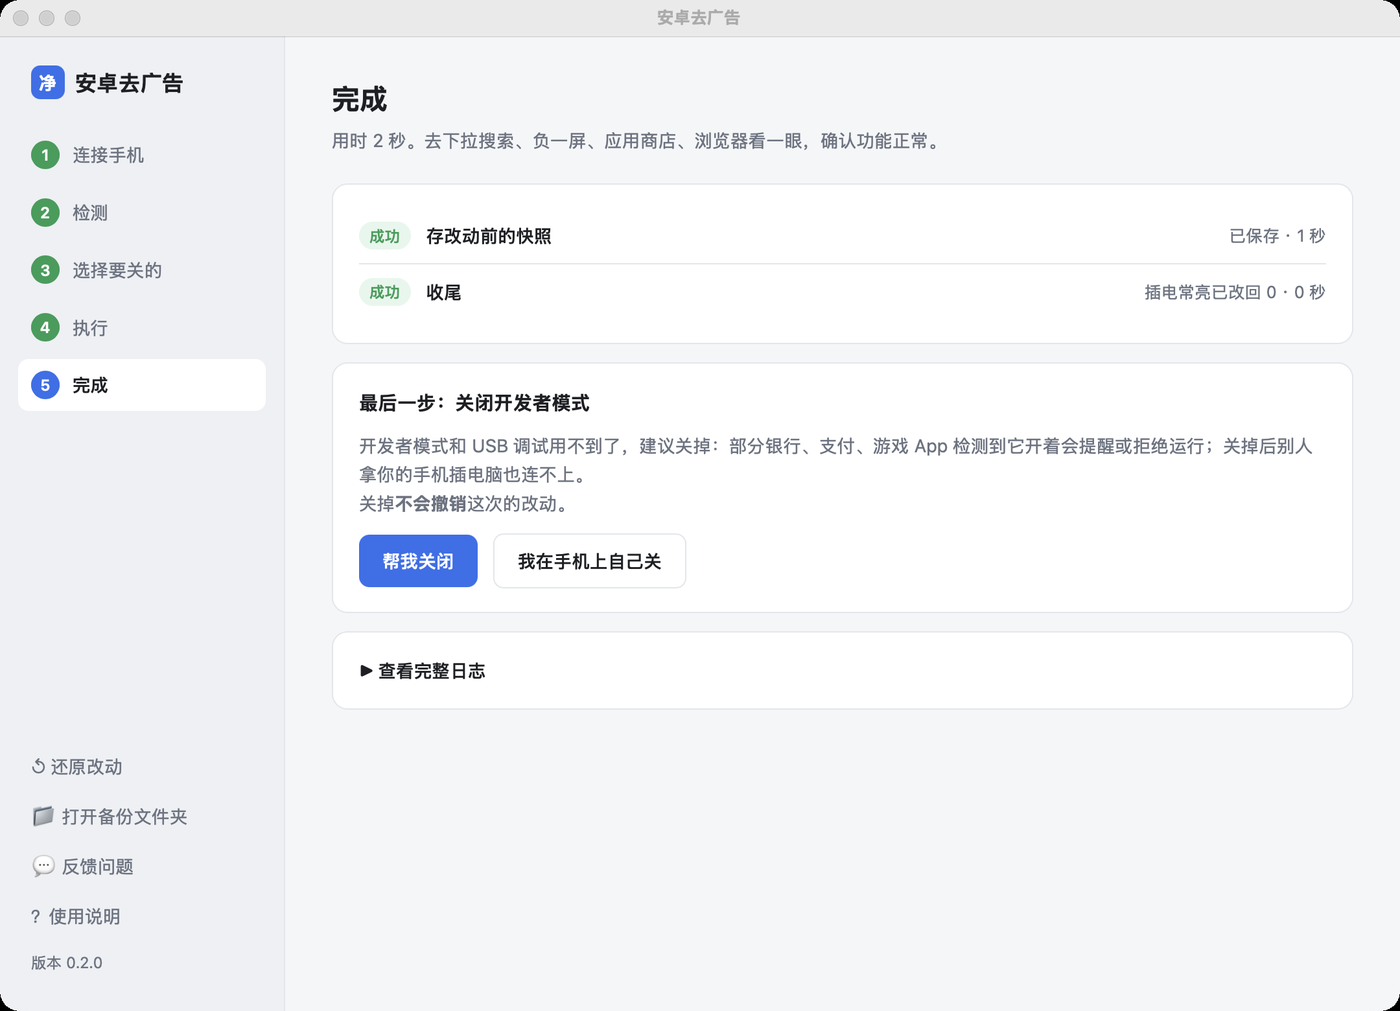
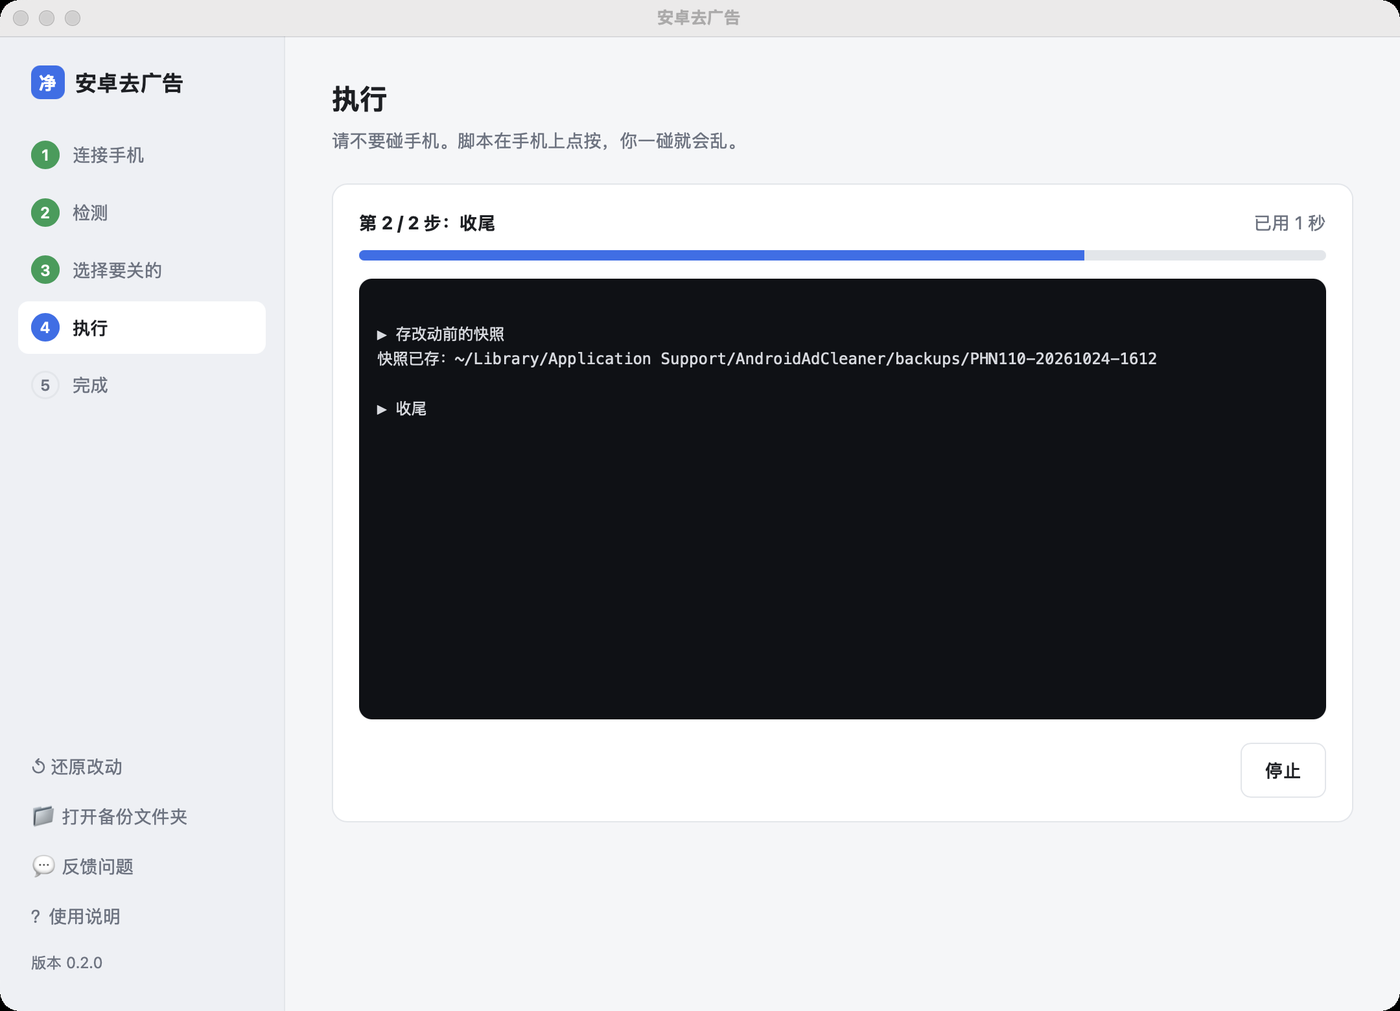
介绍网页 index.html（国内百度网盘 + GitHub 双下载）；执行页截图修正；快照路径显示用 ~ 代替用户目录

diff --git a/index.html b/index.html
@@ -1,0 +1,276 @@
+<!doctype html>
+<html lang="zh-CN">
+<head>
+<meta charset="utf-8">
+<meta name="viewport" content="width=device-width, initial-scale=1">
+<title>安卓去广告</title>
+<meta name="description" content="关掉国产安卓手机系统里的广告、热搜、资讯推荐和营销推送。不 root，不刷机，每一项都能还原。Mac 与 Windows 桌面客户端。">
+<link rel="icon" href="gui/icon-1024.png">
+<style>
+:root{
+  --bg:#ffffff; --bg2:#f5f6f8; --card:#ffffff; --text:#16181d; --sub:#5f6672; --line:#e4e7ec;
+  --accent:#2f6fec; --accent2:#1f56c9; --accent-weak:#eaf1fe; --ok:#1f9d55; --warn:#b86e00; --warn-weak:#fdf4e3;
+  --shadow:0 10px 30px rgba(20,30,60,.08);
+}
+@media (prefers-color-scheme: dark){
+  :root:not([data-theme="light"]){
+    --bg:#111317; --bg2:#171a1f; --card:#1c1f25; --text:#eceef2; --sub:#a0a6b0; --line:#2b3038;
+    --accent:#5b8ff9; --accent2:#7aa5ff; --accent-weak:#1d2a44; --ok:#45c47b; --warn:#e2a443; --warn-weak:#33280f;
+    --shadow:0 10px 30px rgba(0,0,0,.35);
+  }
+}
+*{box-sizing:border-box}
+html{scroll-behavior:smooth}
+html,body{overflow-x:hidden}
+body{margin:0;background:var(--bg);color:var(--text);
+  font:16px/1.7 -apple-system,BlinkMacSystemFont,"PingFang SC","Microsoft YaHei","Segoe UI",sans-serif;-webkit-font-smoothing:antialiased}
+a{color:var(--accent);text-decoration:none}
+a:hover{text-decoration:underline}
+.wrap{max-width:1080px;margin:0 auto;padding:0 20px}
+nav{position:sticky;top:0;z-index:5;background:color-mix(in srgb,var(--bg) 85%,transparent);backdrop-filter:blur(12px);border-bottom:1px solid var(--line)}
+nav .wrap{display:flex;align-items:center;gap:22px;height:58px}
+.logo{display:flex;align-items:center;gap:10px;font-weight:700;font-size:17px;color:var(--text)}
+.logo img{width:28px;height:28px}
+nav .links{margin-left:auto;display:flex;gap:20px;font-size:14px}
+nav .links a{color:var(--sub)}
+@media (max-width:640px){nav .links a:not(.gh){display:none}}
+
+.hero{padding:72px 0 40px;text-align:center}
+.hero h1{font-size:clamp(34px,6vw,56px);line-height:1.15;margin:0 0 18px;letter-spacing:-.5px}
+.hero p.lead{font-size:clamp(17px,2.2vw,20px);color:var(--sub);max-width:640px;margin:0 auto 30px}
+.pills{display:flex;flex-wrap:wrap;justify-content:center;gap:10px;margin-bottom:34px}
+.pill{border:1px solid var(--line);border-radius:99px;padding:5px 14px;font-size:14px;color:var(--sub);background:var(--bg2)}
+.cta{display:flex;flex-wrap:wrap;gap:12px;justify-content:center}
+.btn{display:inline-flex;align-items:center;gap:8px;border-radius:12px;padding:12px 22px;font-weight:600;font-size:16px;border:1px solid transparent;cursor:pointer}
+.btn:hover{text-decoration:none}
+.btn.primary{background:var(--accent);color:#fff}
+.btn.primary:hover{background:var(--accent2)}
+.btn.ghost{background:var(--accent-weak);color:var(--accent)}
+.btn.line{border-color:var(--line);color:var(--text);background:var(--card)}
+.btn small{font-weight:500;opacity:.8;font-size:13px}
+.hint{color:var(--sub);font-size:14px;margin-top:14px}
+.shot{margin:46px auto 0;max-width:960px;border-radius:14px;overflow:hidden;box-shadow:var(--shadow);border:1px solid var(--line)}
+.shot img{display:block;width:100%}
+
+section{padding:76px 0}
+section.alt{background:var(--bg2)}
+h2{font-size:clamp(26px,3.6vw,34px);margin:0 0 10px;letter-spacing:-.3px}
+.sec-lead{color:var(--sub);margin:0 0 34px;max-width:720px}
+
+.dl-grid{display:grid;grid-template-columns:repeat(auto-fit,minmax(min(240px,100%),1fr));gap:16px}
+.dl{background:var(--card);border:1px solid var(--line);border-radius:16px;padding:22px;display:flex;flex-direction:column;gap:12px;position:relative}
+.dl.rec{border-color:var(--accent);box-shadow:0 0 0 3px var(--accent-weak)}
+.dl .tag{position:absolute;top:-11px;left:18px;background:var(--accent);color:#fff;font-size:12px;font-weight:700;border-radius:99px;padding:2px 10px;display:none}
+.dl.rec .tag{display:block}
+.dl h3{margin:0;font-size:18px}
+.dl .meta{color:var(--sub);font-size:14px;margin:-6px 0 4px}
+.dl .btn{justify-content:center;padding:10px 14px;font-size:15px}
+.dl .note{font-size:13px;color:var(--sub)}
+.baidu{margin-top:22px;border-radius:14px;padding:16px 18px;background:var(--warn-weak);color:var(--warn);font-size:15px}
+.baidu b{color:var(--text)}
+.baidu code{background:var(--card);padding:1px 8px;border-radius:6px;font-size:15px;color:var(--text)}
+details.sum{margin-top:16px;color:var(--sub);font-size:13px}
+details.sum code{font-size:12px;word-break:break-all}
+
+.feat{display:grid;grid-template-columns:repeat(auto-fit,minmax(min(200px,100%),1fr));gap:16px}
+.f{background:var(--card);border:1px solid var(--line);border-radius:16px;padding:20px}
+.f .ico{font-size:26px}
+.f h3{margin:8px 0 6px;font-size:17px}
+.f p{margin:0;color:var(--sub);font-size:15px}
+
+.steps{display:grid;gap:46px}
+.step{display:grid;grid-template-columns:1fr 1.5fr;gap:34px;align-items:center}
+.step:nth-child(even) .txt{order:2}
+@media (max-width:760px){.step{grid-template-columns:1fr}.step:nth-child(even) .txt{order:0}}
+.step .num{display:inline-grid;place-items:center;width:32px;height:32px;border-radius:50%;background:var(--accent);color:#fff;font-weight:700;margin-bottom:10px}
+.step h3{margin:0 0 8px;font-size:22px}
+.step p{margin:0;color:var(--sub)}
+.step img{width:100%;border-radius:12px;border:1px solid var(--line);box-shadow:var(--shadow);display:block}
+
+.promise{display:grid;grid-template-columns:repeat(auto-fit,minmax(min(220px,100%),1fr));gap:14px}
+.pr{display:flex;gap:12px;align-items:flex-start;background:var(--card);border:1px solid var(--line);border-radius:14px;padding:16px 18px}
+.pr .ck{color:var(--ok);font-weight:800;font-size:18px;line-height:1.4}
+.pr b{display:block}
+.pr span{color:var(--sub);font-size:14px}
+
+table{width:100%;border-collapse:collapse;background:var(--card);border:1px solid var(--line);border-radius:14px;overflow:hidden;font-size:15px}
+th,td{padding:12px 14px;border-bottom:1px solid var(--line);text-align:left;vertical-align:top}
+th{background:var(--bg2);font-weight:600;font-size:14px;color:var(--sub)}
+tr:last-child td{border-bottom:0}
+.tbl{overflow-x:auto}
+.y{color:var(--ok);font-weight:600}.m{color:var(--warn);font-weight:600}
+
+.faq details{background:var(--card);border:1px solid var(--line);border-radius:12px;padding:14px 18px;margin-bottom:10px}
+.faq summary{cursor:pointer;font-weight:600}
+.faq p{margin:10px 0 0;color:var(--sub)}
+
+footer{padding:40px 0 60px;color:var(--sub);font-size:14px;border-top:1px solid var(--line)}
+footer .wrap{display:flex;flex-wrap:wrap;gap:16px 28px;justify-content:space-between}
+</style>
+</head>
+<body>
+
+<nav><div class="wrap">
+  <a class="logo" href="#"><img src="gui/icon-1024.png" alt="">安卓去广告</a>
+  <div class="links">
+    <a href="#download">下载</a><a href="#features">能关什么</a><a href="#how">怎么用</a><a href="#devices">支持机型</a><a href="#faq">常见问题</a>
+    <a class="gh" href="https://github.com/rddmwmddr/android-ad-cleaner">GitHub</a>
+  </div>
+</div></nav>
+
+<header class="hero"><div class="wrap">
+  <h1>把手机里的广告<br>关掉</h1>
+  <p class="lead">国产安卓手机的开屏广告、热搜、资讯推荐、营销推送，插上数据线，在电脑上点几下关掉。</p>
+  <div class="pills">
+    <span class="pill">不 root · 不刷机</span><span class="pill">系统更新不受影响</span><span class="pill">每一项都能还原</span><span class="pill">开源免费</span>
+  </div>
+  <div class="cta">
+    <a class="btn primary" id="hero-cn" href="#download">国内下载 <small id="hero-os"></small></a>
+    <a class="btn line" id="hero-gh" href="#download">GitHub 下载</a>
+  </div>
+  <div class="hint">版本 <span class="ver"></span> · Mac（Apple / Intel 芯片）· Windows 10 / 11 · 不需要 Python，也不需要 AI 工具</div>
+  <div class="shot"><img src="images/gui-3-detect.png" alt="客户端：检测页" loading="lazy"></div>
+</div></header>
+
+<section id="download" class="alt"><div class="wrap">
+  <h2>下载</h2>
+  <p class="sec-lead">选你的电脑。每个版本都有国内下载（百度网盘）和 GitHub 下载两个地址，文件一样。</p>
+  <div class="dl-grid" id="dl-grid"></div>
+  <div class="baidu" id="baidu-box"></div>
+  <details class="sum"><summary>SHA-256 校验值</summary><div id="sums"></div></details>
+</div></section>
+
+<section id="features"><div class="wrap">
+  <h2>能关掉什么</h2>
+  <p class="sec-lead">只拨系统和 App 自带的开关。搜索、负一屏卡片、应用商店的安装和更新、天气预警、快递提醒，这些功能保留。</p>
+  <div class="feat">
+    <div class="f"><div class="ico">📢</div><h3>系统广告</h3><p>个性化广告、广告跟踪（OAID）、智能推荐服务。</p></div>
+    <div class="f"><div class="ico">🔥</div><h3>热搜和资讯</h3><p>下拉搜索的热榜、负一屏资讯、浏览器信息流。</p></div>
+    <div class="f"><div class="ico">🛍</div><h3>推广位</h3><p>应用商店的轮播、开屏、悬浮活动、签到福利。</p></div>
+    <div class="f"><div class="ico">🔔</div><h3>营销推送</h3><p>各 App 的「内容与营销」「活动优惠」通知。订单、物流、聊天通知保留。</p></div>
+    <div class="f"><div class="ico">⚡</div><h3>快应用</h3><p>广告一点就跳进去的免安装小程序。关闭后跳转会被系统拦下。</p></div>
+    <div class="f"><div class="ico">🧩</div><h3>广告组件</h3><p>OPPO 广告服务、小米系统广告组件等，挂起后可一键恢复。</p></div>
+  </div>
+</div></section>
+
+<section id="how" class="alt"><div class="wrap">
+  <h2>怎么用</h2>
+  <p class="sec-lead">有现成机型脚本的手机，从插线到做完 4 到 6 分钟。</p>
+  <div class="steps">
+    <div class="step"><div class="txt"><div class="num">1</div><h3>连接手机</h3><p>手机打开开发者模式和 USB 调试，用数据线连电脑。客户端里有分步图文教程，五个品牌的入口都写了。</p></div><img src="images/gui-1-connect.png" alt="连接手机" loading="lazy"></div>
+    <div class="step"><div class="txt"><div class="num">2</div><h3>检测</h3><p>读出型号、系统版本、有没有机型脚本、快应用和广告组件的状态。只读，不改东西。</p></div><img src="images/gui-3-detect.png" alt="检测" loading="lazy"></div>
+    <div class="step"><div class="txt"><div class="num">3</div><h3>选择要关的</h3><p>营销通知按渠道列出来，服务类渠道默认不勾。快应用和广告组件由你决定，不勾不动。</p></div><img src="images/gui-4-choose.png" alt="选择要关的" loading="lazy"></div>
+    <div class="step"><div class="txt"><div class="num">4</div><h3>执行</h3><p>开始前存一份改动前的快照。执行期间显示进度和实时日志，手机放着别碰。</p></div><img src="images/gui-6-run.png" alt="执行" loading="lazy"></div>
+    <div class="step"><div class="txt"><div class="num">5</div><h3>完成，关闭开发者模式</h3><p>列出每一步的结果。最后一键关闭开发者模式，关掉不会撤销这次的改动。想恢复，左下角「还原改动」。</p></div><img src="images/gui-7-done.png" alt="完成" loading="lazy"></div>
+  </div>
+</div></section>
+
+<section><div class="wrap">
+  <h2>不做的事</h2>
+  <p class="sec-lead">全部代码公开在 GitHub，可以逐行检查。</p>
+  <div class="promise">
+    <div class="pr"><span class="ck">✓</span><div><b>不 root、不解锁、不刷机</b><span>系统更新照收，保修不受影响</span></div></div>
+    <div class="pr"><span class="ck">✓</span><div><b>不卸载、不停用系统应用</b><span>只用「挂起」，一条命令恢复</span></div></div>
+    <div class="pr"><span class="ck">✓</span><div><b>不替你同意任何协议</b><span>遇到协议页点「取消」「以后再说」</span></div></div>
+    <div class="pr"><span class="ck">✓</span><div><b>不上传任何数据</b><span>全程只在你的电脑和手机之间进行</span></div></div>
+  </div>
+</div></section>
+
+<section id="devices" class="alt"><div class="wrap">
+  <h2>支持机型</h2>
+  <p class="sec-lead">营销通知、快应用、广告组件三项所有安卓手机通用。「各 App 里的广告开关」要有对应机型的脚本，没有的机型可以照手动清单做。</p>
+  <div class="tbl"><table>
+    <thead><tr><th>品牌</th><th>实测机型</th><th>系统</th><th>机型脚本（自动关 App 开关）</th></tr></thead>
+    <tbody>
+      <tr><td>荣耀</td><td>PNM-AN10</td><td>MagicOS 10</td><td class="y">有，重跑 4 分钟</td></tr>
+      <tr><td>OPPO</td><td>Find N6</td><td>ColorOS 16.0.9</td><td class="m">有，整段待验证</td></tr>
+      <tr><td>OPPO</td><td>Find X10 Pro Max · Find X9 Ultra · Find N3 典藏版</td><td>ColorOS 16 / 17</td><td>手动清单</td></tr>
+      <tr><td>小米</td><td>Xiaomi 18 Pro Max</td><td>HyperOS 4</td><td class="m">有，整段待验证</td></tr>
+      <tr><td>vivo</td><td>X300 Ultra</td><td>OriginOS 6</td><td>手动清单</td></tr>
+    </tbody>
+  </table></div>
+  <p class="hint" style="text-align:left">你的手机不在表里：客户端里点「反馈问题」→「适配新机型」。</p>
+</div></section>
+
+<section id="faq"><div class="wrap faq">
+  <h2>常见问题</h2>
+  <details><summary>Mac 怎么看是哪种芯片？</summary><p>点屏幕左上角的苹果图标 → 关于本机。「芯片」一栏写 Apple M 开头的是 Apple 芯片，写 Intel 的是 Intel 芯片。</p></details>
+  <details><summary>Windows 弹出「Windows 已保护你的电脑」</summary><p>安装程序没有代码签名。点「更多信息」→「仍要运行」。</p></details>
+  <details><summary>Windows 提示缺少 WebView2</summary><p>点「确定」打开微软官网，下载安装「Evergreen Bootstrapper」，再打开本程序。Windows 11 自带，部分 Windows 10 要装。</p></details>
+  <details><summary>插上手机，客户端认不出来</summary><p>先检查三件事：换一根能传数据的线；手机通知栏里 USB 用途选「传输文件」；手机弹窗点「允许 USB 调试」。Windows 还要装手机品牌的 USB 驱动，各品牌的「手机助手」里带驱动。</p></details>
+  <details><summary>会影响系统更新和保修吗？</summary><p>不会。不 root，不解锁，不改系统分区。用到的是开发者选项和系统自带的设置项。</p></details>
+  <details><summary>关完还会有广告吗？</summary><p>会剩一些：浏览器搜索框的轮播热词没有开关；OPPO 软件商店的「开机必备」弹窗关不掉；新装的 App 默认打开广告跟踪和营销通知，装新 App 后再跑一次。</p></details>
+  <details><summary>怎么恢复？</summary><p>客户端左下角「还原改动」：恢复快应用、恢复挂起的广告组件、重新打开关掉的营销通知。App 内的开关按清单路径手动打开。</p></details>
+</div></section>
+
+<footer><div class="wrap">
+  <div>安卓去广告 · MIT 开源</div>
+  <div><a href="https://github.com/rddmwmddr/android-ad-cleaner">源代码</a> · <a href="https://github.com/rddmwmddr/android-ad-cleaner/tree/main/docs/%E6%B8%85%E5%8D%95">手动清单</a> · <a href="https://github.com/rddmwmddr/android-ad-cleaner/issues/new/choose">反馈问题</a> · <a href="https://github.com/rddmwmddr/android-ad-cleaner/releases">全部版本</a></div>
+</div></footer>
+
+<script>
+/* ===== 发布信息：发新版或填网盘链接时只改这里 ===== */
+const REL = {
+  version: "0.2.0",
+  github: "https://github.com/rddmwmddr/android-ad-cleaner/releases/download/v0.2.0/",
+  baidu: { url: "", code: "" },      // 百度网盘分享链接和提取码，填好后网页自动显示
+  files: [
+    { id: "mac-arm64", title: "Mac · Apple 芯片", sub: "M1 / M2 / M3 / M4 及以后", file: "AndroidAdCleaner-0.2.0-mac-arm64.dmg", size: "34 MB",
[1 lines of base64/hex data omitted]
+    { id: "mac-intel", title: "Mac · Intel 芯片", sub: "2020 年及以前的 Intel Mac", file: "AndroidAdCleaner-0.2.0-mac-intel.dmg", size: "39 MB",
[1 lines of base64/hex data omitted]
+    { id: "win-setup", title: "Windows · 安装版", sub: "Windows 10 / 11（64 位）", file: "AndroidAdCleaner-0.2.0-windows-setup.exe", size: "29 MB",
[1 lines of base64/hex data omitted]
+    { id: "win-zip", title: "Windows · 免安装", sub: "Windows 10 / 11（64 位）", file: "AndroidAdCleaner-0.2.0-windows-portable.zip", size: "43 MB",
[1 lines of base64/hex data omitted]
+  ],
+};
+/* ================================================ */
+
+const hasBaidu = !!REL.baidu.url;
+document.querySelectorAll(".ver").forEach(e => e.textContent = REL.version);
+
+function guessOS(){
+  const ua = navigator.userAgent, p = (navigator.userAgentData && navigator.userAgentData.platform) || navigator.platform || "";
+  if (/Win/i.test(p) || /Windows/i.test(ua)) return "win-setup";
+  if (/Mac/i.test(p) || /Mac OS X/i.test(ua)){
+    try {                                   // Apple 芯片的 Safari / Chrome 会报告 Apple GPU
+      const gl = document.createElement("canvas").getContext("webgl");
+      const r = gl && gl.getExtension("WEBGL_debug_renderer_info");
+      const gpu = r ? gl.getParameter(r.UNMASKED_RENDERER_WEBGL) : "";
+      if (/Intel/i.test(gpu)) return "mac-intel";
+    } catch(e) {}
+    return "mac-arm64";
+  }
+  return null;
+}
+const rec = guessOS();
+
+document.getElementById("dl-grid").innerHTML = REL.files.map(f => `
+  <div class="dl ${f.id === rec ? "rec" : ""}">
+    <span class="tag">推荐你的电脑</span>
+    <h3>${f.title}</h3>
+    <div class="meta">${f.sub} · ${f.size}</div>
+    <a class="btn primary" href="${hasBaidu ? REL.baidu.url : "#baidu-box"}" ${hasBaidu ? 'target="_blank" rel="noopener"' : ""}>国内下载（百度网盘）</a>
+    <a class="btn line" href="${REL.github + f.file}">GitHub 下载</a>
+    <div class="note">${f.note}</div>
+  </div>`).join("");
+
+document.getElementById("baidu-box").innerHTML = hasBaidu
+  ? `百度网盘：<a href="${REL.baidu.url}" target="_blank" rel="noopener">${REL.baidu.url}</a>　提取码 <code>${REL.baidu.code}</code><br>网盘里是同一个文件夹，按上面的文件名找对应的版本，文件夹里附了安装说明。`
+  : `国内下载（百度网盘）整理中，暂时请用 GitHub 下载。`;
+
+const r = REL.files.find(f => f.id === rec);
+if (r){
+  document.getElementById("hero-os").textContent = "· " + r.title;
+  document.getElementById("hero-gh").href = REL.github + r.file;
+  document.getElementById("hero-cn").href = hasBaidu ? REL.baidu.url : "#download";
+  if (hasBaidu) document.getElementById("hero-cn").target = "_blank";
+}
+const sums = REL.files.filter(f => f.sha);
+document.getElementById("sums").innerHTML = sums.length
+  ? sums.map(f => `<div>${f.file}<br><code>${f.sha}</code></div>`).join("<br>")
+  : "见网盘文件夹里的「SHA256校验.txt」或 GitHub Releases 页面。";
+</script>
+</body>
+</html>

diff --git a/gui/shots.py b/gui/shots.py
@@ -48,8 +48,17 @@ def run(w):
     shot("gui-5-choose-more")
     # 执行页和完成页：只跑「快照 + 收尾」，不改手机设置
     w.evaluate_js(f"api.start('{SERIAL}', {{backup: true, model: S.status.info.model, steps: [], channels: [], quickapp: false, ads: []}}).then(() => {{ S.logNext = 0; showRun(); }})")
-    wait_js(w, "S.step === 4 && document.querySelector('#log') && document.querySelector('#log').textContent.length > 20", 30)
+    wait_js(w, "S.step === 5", 120)
+    # 执行太快，截不到进行中的页面：用这次的真实日志重新显示执行页（停在第 2 步）
+    w.evaluate_js("""(async () => { const r = await api.poll(0); const done = r; showRun(); clearInterval(pollJob);
+      const lines = r.lines.filter(l => l.trim()).slice(0, 3);
+      document.querySelector('#log').textContent = lines.join('\\n') + '\\n';
+      document.querySelector('#jt').textContent = '第 2 / 2 步：收尾';
+      document.querySelector('#js').textContent = '已用 1 秒';
+      document.querySelector('#jb').style.width = '75%'; window._done = done; })()""")
+    time.sleep(1.5)
     shot("gui-6-run")
+    w.evaluate_js("showDone(window._done)")
     wait_js(w, "S.step === 5", 120)
     shot("gui-7-done")
     w.evaluate_js("openFeedback('bug').then(() => { document.querySelector('#fbtext').value = '执行到「关闭营销通知」时卡住了'; document.querySelector('details:has(#fbdiagtext)').open = true; })")

diff --git a/tool/run.py b/tool/run.py
@@ -218,7 +218,7 @@ def main():
         st = "\n".join(f"## {n}\n" + sh(s, f"settings list {n}") for n in ("system", "secure", "global"))
         open(os.path.join(d, "settings-before.txt"), "w", encoding="utf-8").write(st)
         open(os.path.join(d, "stay_on.txt"), "w", encoding="utf-8").write(sh(s, "settings get global stay_on_while_plugged_in"))
-        print(f"快照已存：{d if os.environ.get('AAC_BACKUPS') else os.path.relpath(d, ROOT)}")
+        print(f"快照已存：{d.replace(os.path.expanduser('~'), '~') if os.environ.get('AAC_BACKUPS') else os.path.relpath(d, ROOT)}")
 
     elif cmd == "recipe":
         r = recipe_for(info(s)["model"])
